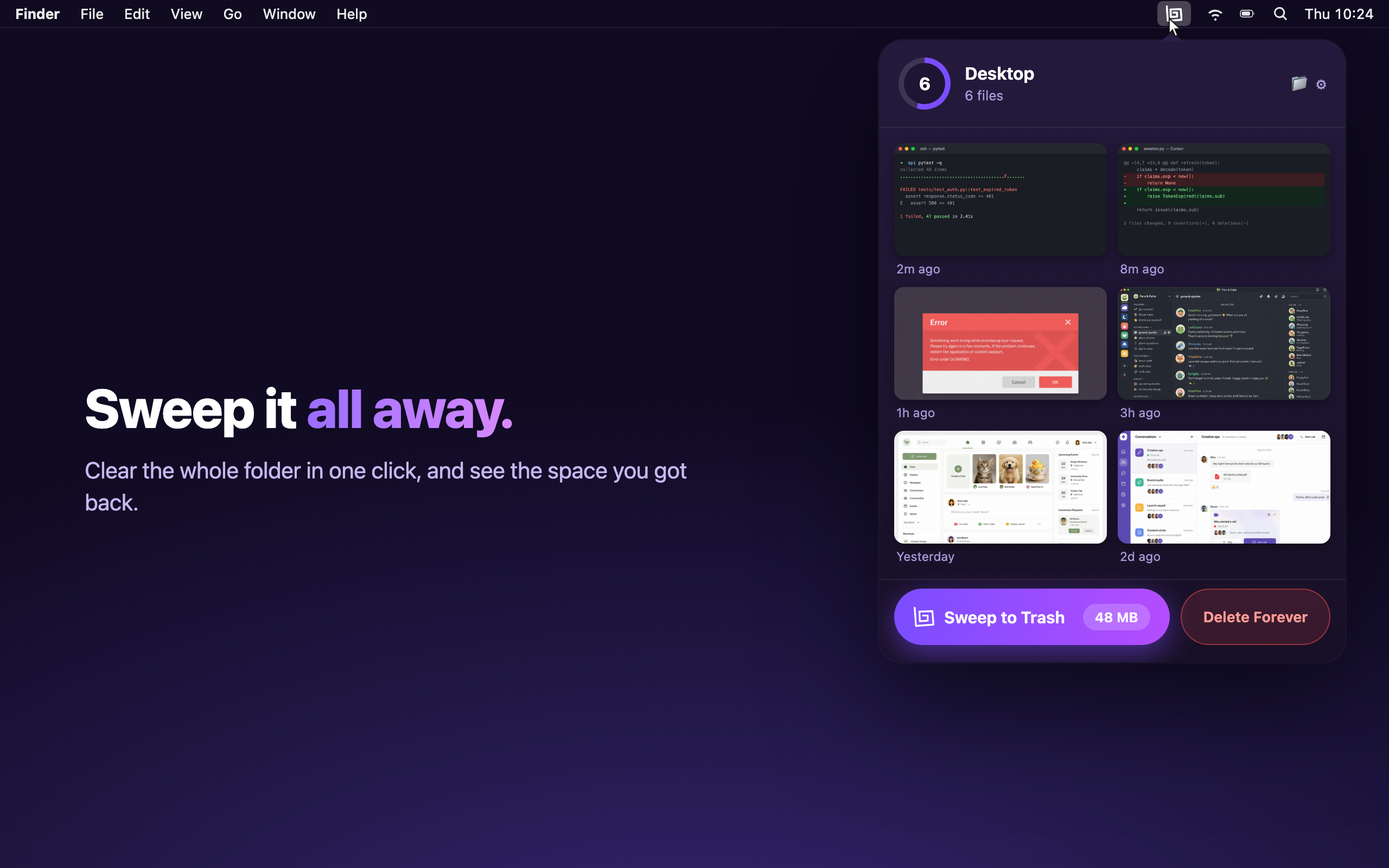
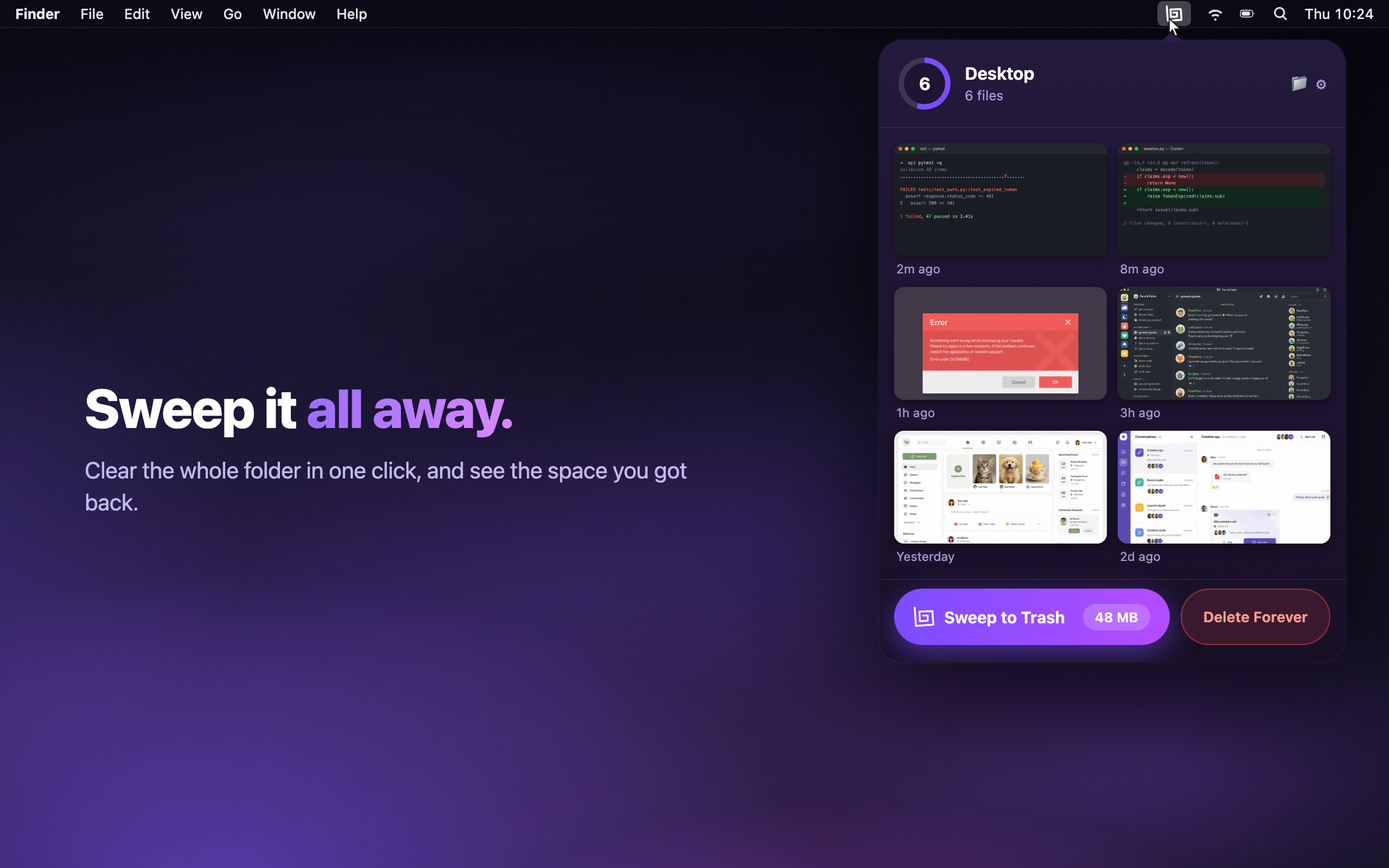
Put the screenshots on a desktop wallpaper
The last piece of the "this is a menu bar app" illusion. The panel hung off a
menu bar correctly but sat on a flat brand gradient, which still read as a
poster background rather than a desktop the panel was floating over.

wallpaper_gen.py renders it procedurally through the same headless Chrome
pipeline the rest of the marketing shots use — no Pillow or numpy here, and CSS
gradients composite without banding for free. Original artwork; nothing traced
from or derived from Apple's wallpapers.

Composed around what sits on top of it, not for its own sake: near-black across
the top strip so menu bar text holds, hard darkening into the top-right where
the panel hangs, and the bright violet bloom pushed down into the bottom edge —
below the headline, in the corner nothing else occupies. Built as stacked soft
blooms rather than one gradient, since a single abrupt stop shows up as a seam
straight across the image. Blurred ribbons supply the flow that pure radials
can't, and a few percent of feTurbulence grain keeps the large smooth areas
from banding on a retina display.

Changed region(s): [[0.0, 0.375, 0.5938, 1.0], [0.8125, 0.8438, 0.875, 0.9062]]

diff --git a/marketing/wallpaper_gen.py b/marketing/wallpaper_gen.py
@@ -1,0 +1,84 @@
+#!/usr/bin/env python3
+"""Render the desktop wallpaper behind the App Store marketing shots.
+
+Original artwork, generated procedurally — nothing traced from or derived from Apple's
+wallpapers. Composed as a stack of soft radial blooms over a near-black violet base, so
+there are no hard stops anywhere; a single gradient with an abrupt stop reads as a seam
+across the image and instantly kills the illusion of a photographed desktop.
+
+The composition is driven entirely by what sits on top of it in gen.py:
+  - The menu bar runs across the very top, so the top strip stays near-black for contrast.
+  - The panel hangs off the top-right, so that corner is darkened hard and kept empty.
+  - The headline sits mid-left over the background, so the left side stays dark enough for
+    white type to hold. The brightest bloom is pushed BELOW it, into the bottom edge, where
+    nothing overlaps.
+
+Renders through headless Chrome, matching gen.py — neither Pillow nor numpy is installed
+here, and CSS gradients composite without banding for free.
+
+Output: assets/wallpaper.png at 2560x1600 (1280x800 logical @2x).
+"""
+import subprocess, pathlib
+
+OUT = pathlib.Path(__file__).parent
+CHROME = "/Applications/Google Chrome.app/Contents/MacOS/Google Chrome"
+
+BASE = "#100d1e"        # near-black violet the whole image sits on
+GLOW = "123,77,255"     # #7B4DFF — the app's signature violet
+LIFT = "180,77,255"     # #B44DFF — its lighter partner, used sparingly
+
+# Ordered front to back, the way CSS composites multiple backgrounds. Every layer fades to
+# transparent well inside its own bounds so nothing ever meets an edge abruptly.
+LAYERS = [
+    # Darkening passes, listed first so they sit ON TOP of the color.
+    "linear-gradient(180deg, rgba(4,3,10,.92) 0%, rgba(4,3,10,.55) 9%, rgba(4,3,10,0) 26%)",
+    "radial-gradient(ellipse 62% 78% at 101% -8%, rgba(4,3,10,.82) 0%, rgba(4,3,10,.35) 45%, rgba(4,3,10,0) 72%)",
+    "radial-gradient(ellipse 85% 60% at 50% 46%, rgba(4,3,10,.30) 0%, rgba(4,3,10,0) 68%)",
+    # Light. The big bloom is low and left; a smaller one balances it centre-right.
+    f"radial-gradient(ellipse 62% 52% at 16% 104%, rgba({GLOW},.62) 0%, rgba({GLOW},.22) 42%, rgba({GLOW},0) 72%)",
+    f"radial-gradient(ellipse 46% 34% at 62% 116%, rgba({LIFT},.42) 0%, rgba({LIFT},0) 70%)",
+    "radial-gradient(ellipse 34% 46% at -6% 62%, rgba(96,64,210,.38) 0%, rgba(96,64,210,0) 70%)",
+    f"radial-gradient(ellipse 40% 26% at 84% 88%, rgba({GLOW},.20) 0%, rgba({GLOW},0) 72%)",
+    # A faint cool cast up top keeps the dark half from going flat grey.
+    "radial-gradient(ellipse 70% 40% at 34% 8%, rgba(58,44,132,.30) 0%, rgba(58,44,132,0) 70%)",
+    BASE,
+]
+
+# Two blurred ribbons give the flow that pure radials can't — without them the result reads
+# as a vignette rather than a wallpaper. Blurred far past their own size so no edge survives.
+RIBBONS = """
+.ribbon { position:absolute; border-radius:50%; filter:blur(90px); mix-blend-mode:screen; }
+.r1 { left:-14%; top:58%; width:86%; height:30%; background:rgba(123,77,255,.34); transform:rotate(-13deg); }
+.r2 { left:26%;  top:80%; width:70%; height:24%; background:rgba(180,77,255,.22); transform:rotate(-6deg); }
+.r3 { left:-8%;  top:34%; width:44%; height:16%; background:rgba(96,64,210,.20); transform:rotate(-18deg); }
+"""
+
+# feTurbulence grain. Large flat gradients band visibly on a retina panel; a couple of
+# percent of noise breaks the bands up without reading as texture.
+GRAIN = """<svg class="grain" xmlns="http://www.w3.org/2000/svg">
+  <filter id="n"><feTurbulence type="fractalNoise" baseFrequency="0.8" numOctaves="3" stitchTiles="stitch"/>
+  <feColorMatrix type="saturate" values="0"/></filter>
+  <rect width="100%" height="100%" filter="url(#n)"/></svg>"""
+
+HTML = f"""<!DOCTYPE html><html><head><meta charset='utf-8'><style>
+* {{ margin:0; padding:0; }}
+html,body {{ width:1280px; height:800px; overflow:hidden; }}
+body {{ position:relative; background:{', '.join(LAYERS)}; }}
+{RIBBONS}
+.grain {{ position:absolute; inset:0; width:100%; height:100%; opacity:.035; pointer-events:none; }}
+</style></head><body>
+<div class="ribbon r3"></div><div class="ribbon r1"></div><div class="ribbon r2"></div>
+{GRAIN}
+</body></html>"""
+
+if __name__ == "__main__":
+    (OUT / "assets").mkdir(exist_ok=True)
+    hp = OUT / "_wallpaper.html"
+    hp.write_text(HTML)
+    png = OUT / "assets" / "wallpaper.png"
+    subprocess.run([CHROME, "--headless=new", "--disable-gpu", "--hide-scrollbars",
+                    "--force-device-scale-factor=2", "--window-size=1280,800",
+                    f"--screenshot={png}", str(hp)],
+                   stdout=subprocess.DEVNULL, stderr=subprocess.DEVNULL, check=True)
+    hp.unlink()
+    print(f"rendered {png}")
